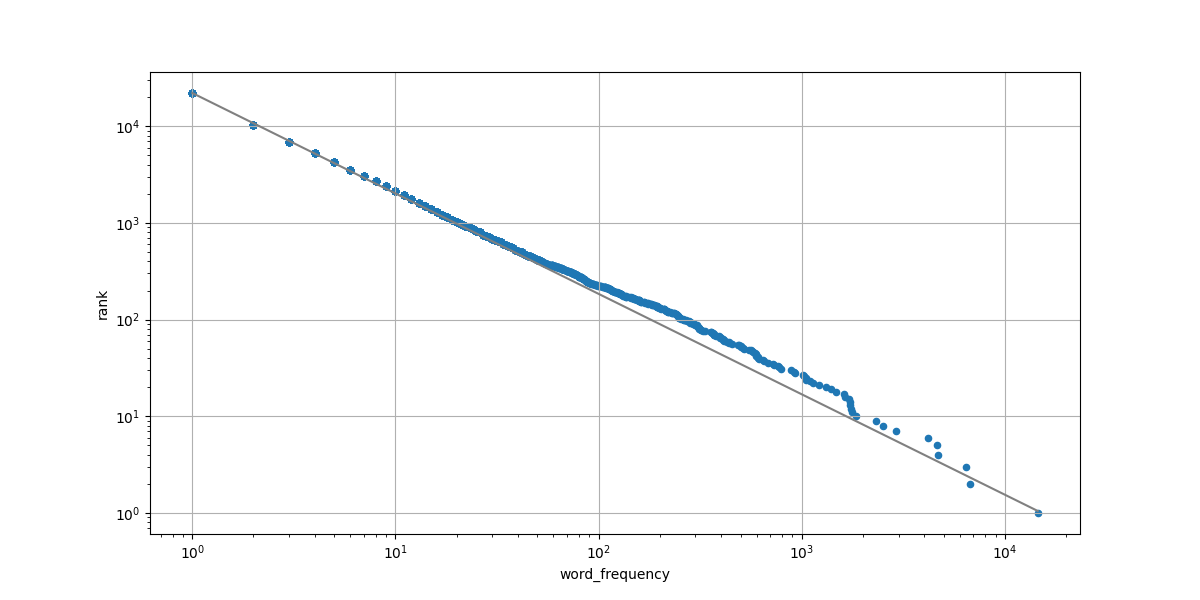
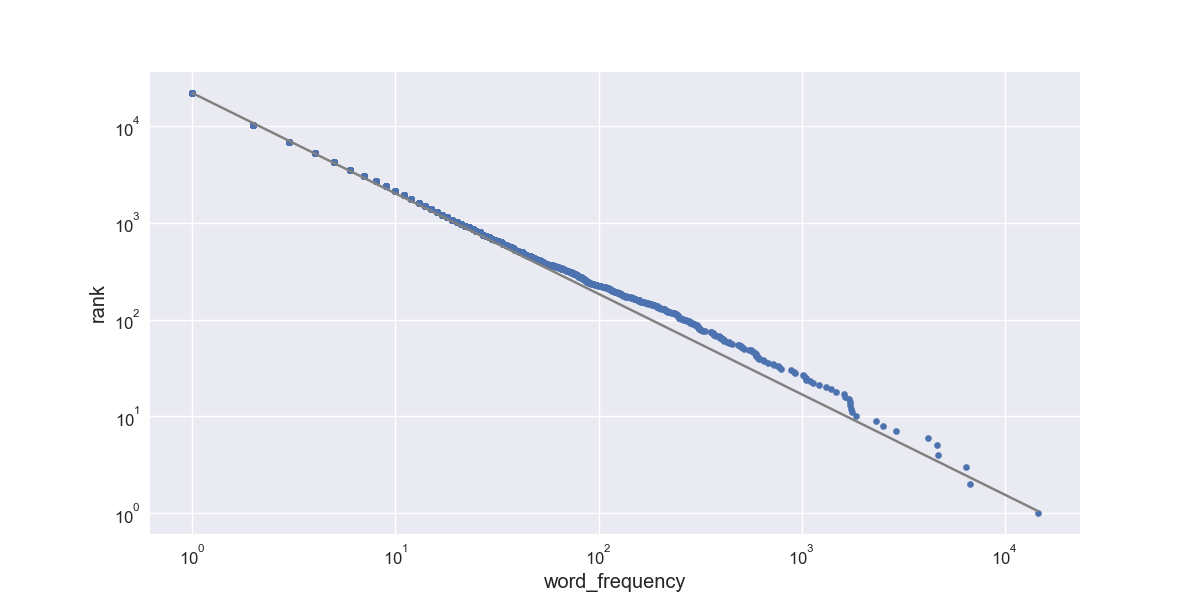
Added YAML file for plot configuration

diff --git a/bin/plotcounts.py b/bin/plotcounts.py
@@ -2,8 +2,11 @@
 
 import argparse
 
+import yaml
 import pandas as pd
 import numpy as np
+import matplotlib as mpl
+import matplotlib.pyplot as plt
 from scipy.optimize import minimize_scalar
 
 
@@ -38,6 +41,18 @@ def get_power_law_params(word_counts):
     return alpha
 
 
+def set_plot_params(param_file):
+    """Set the matplotlib parameters."""
+    if param_file:
+        with open(param_file, 'r') as reader:
+            param_dict = yaml.load(reader, Loader=yaml.BaseLoader)
+    else:
+        param_dict = {}
+
+    for param, value in param_dict.items():
+        mpl.rcParams[param] = value
+
+
 def plot_fit(curve_xmin, curve_xmax, max_rank, alpha, ax):
     """
     Plot the power law curve that was fitted to the data.
@@ -60,8 +75,19 @@ def plot_fit(curve_xmin, curve_xmax, max_rank, alpha, ax):
     ax.loglog(xvals, yvals, color='grey')
 
 
+def save_configuration(filename, params):
+    """Save matplotlib plot configuration a file"""
+    with open(filename, 'w') as writeTo:
+        yaml.dump(params, writeTo)
+
+
 def main(args):
     """Run the command line program."""
+    if args.style:
+        plt.style.use(args.style)
+    set_plot_params(args.plotparams)
+    if args.saveconfig:
+        save_configuration(args.saveconfig, mpl.rcParams)
     df = pd.read_csv(args.infile, header=None, 
                     names=('word', 'word_frequency'))
 
@@ -98,5 +124,12 @@ if __name__ == "__main__":
     parser.add_argument('--xlim', type=float, nargs=2, 
                         metavar=("XMIN", "XMAX"),
                         default=None, help="X-axis limits")
+    parser.add_argument('--plotparams', type=str, default=None,
+                        help="matplotlib parameters (YAML file)")
+    parser.add_argument('--style', type=str, nargs="*",
+                        choices=plt.style.available, default=None,
+                        help="matplotlib style")
+    parser.add_argument('--saveconfig', type=str, default=None,
+                        help="Save matplotlib plot configuration a file.")
     args = parser.parse_args()
     main(args)
